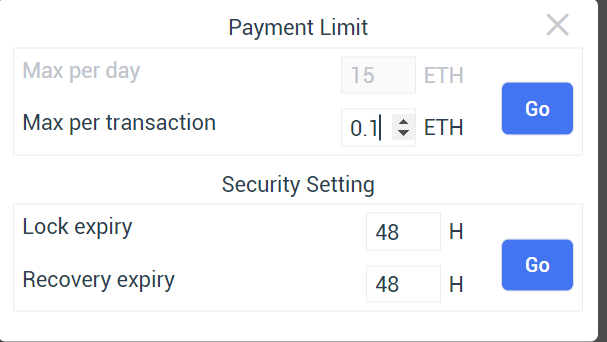
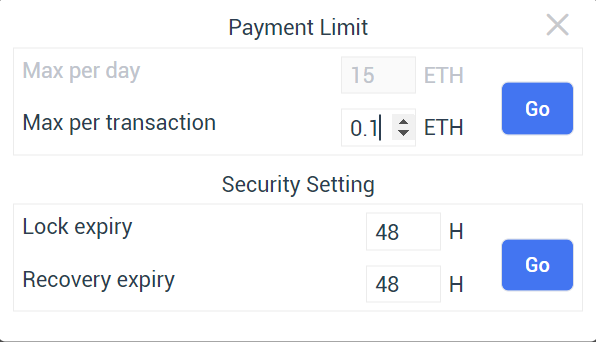
Better display the images

diff --git a/docs/Usage/Send.md b/docs/Usage/Send.md
@@ -9,20 +9,20 @@ You can choose the Multisig Wallet address to send assets, also.
 
 If you choose the Multisig Wallet address to send assets, and the amount of the assets you are going to send is larger than the payment limit (see [here](https://ieigen.github.io/#/docs/Usage/MultisigWallet?id=my-wallet)), it will need the N/2 signers to jointly sign for you to complete the transaction. For example, we can set the max per transation as 0.1 ETH:
 
-<img src="https://github.com/ieigen/ieigen.github.io/raw/main/docs/images/usage/image050.png" width="75%" height="75%">
+<img src="https://github.com/ieigen/ieigen.github.io/raw/main/docs/images/usage/image050.png" width="100%" height="100%">
 
 Suppose you send 0.2 ETH to an address, which is greater than 0.1 ETH
 
-<img src="https://github.com/ieigen/ieigen.github.io/raw/main/docs/images/usage/image051.png" width="75%" height="75%">
+<img src="https://github.com/ieigen/ieigen.github.io/raw/main/docs/images/usage/image051.png" width="100%" height="100%">
 
 You should receive this information, which means the transacation should be confirmed by signer(s)
 
-<img src="https://github.com/ieigen/ieigen.github.io/raw/main/docs/images/usage/image052.png" width="75%" height="75%">
+<img src="https://github.com/ieigen/ieigen.github.io/raw/main/docs/images/usage/image052.png" width="100%" height="100%">
 
 Then you can see in the overview, the transcation should be confirmed by signers (more than N/2 signers)
 
-<img src="https://github.com/ieigen/ieigen.github.io/raw/main/docs/images/usage/image053.png" width="75%" height="75%">
+<img src="https://github.com/ieigen/ieigen.github.io/raw/main/docs/images/usage/image053.png" width="100%" height="100%">
 
 If it can be executed, then you can click "Execute" to send the assets finally
 
-<img src="https://github.com/ieigen/ieigen.github.io/raw/main/docs/images/usage/image054.png" width="75%" height="75%">
+<img src="https://github.com/ieigen/ieigen.github.io/raw/main/docs/images/usage/image054.png" width="100%" height="100%">
